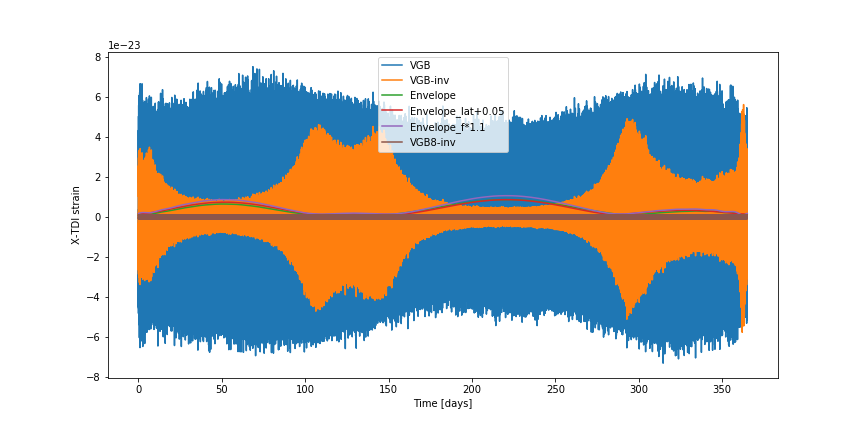
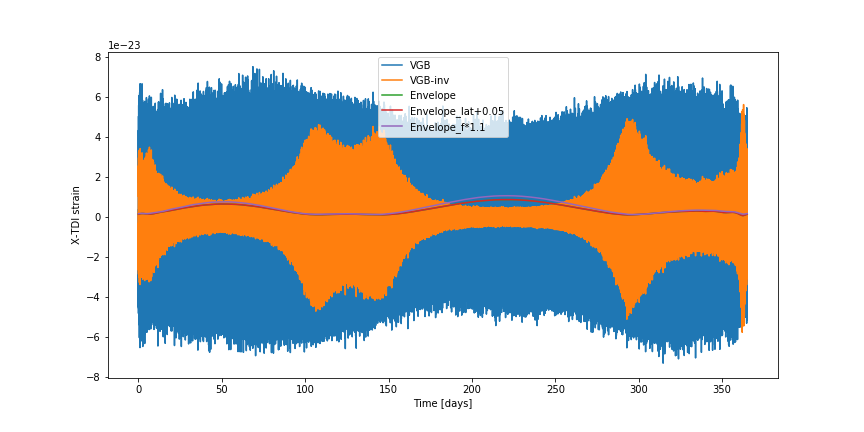
start update

Changed region(s): [[0.1562, 0.4514, 0.875, 0.5116], [0.4375, 0.3009, 0.5938, 0.3611], [0.5625, 0.2407, 0.5938, 0.2708]]

diff --git a/notebooks/start.py b/notebooks/start.py
@@ -33,12 +33,12 @@ dt = int(1/(tdi_descr["sampling_frequency"]))
 tdi_ts = xr.Dataset(dict([(k,TimeSeries(tdi_ts[k][:,1], dt=dt)) for k in ["X", "Y", "Z"]]))
 tdi_fs = xr.Dataset(dict([(k,tdi_ts[k].ts.fft(win=window)) for k in ["X", "Y", "Z"]]))
 
-filtered_fft = tdi_fs.copy()
-peak_freq = 0.0004726
-filtered_fft["X"][tdi_fs.f < peak_freq * 0.99] = 0+0j
-filtered_fft["X"][tdi_fs.f > peak_freq * 1.01] = 0+0j
-data_filtered = filtered_fft["X"].ts.ifft()
-data_filtered2 = TimeSeries(np.fft.irfft(filtered_fft["X"]),dt=dt)
+# filtered_fft = tdi_fs.copy()
+# peak_freq = 0.0004726
+# filtered_fft["X"][tdi_fs.f < peak_freq * 0.99] = 0+0j
+# filtered_fft["X"][tdi_fs.f > peak_freq * 1.01] = 0+0j
+# data_filtered = filtered_fft["X"].ts.ifft()
+# data_filtered2 = TimeSeries(np.fft.irfft(filtered_fft["X"]),dt=dt)
 
 plt.figure
 plt.semilogx(tdi_fs["X"][::30].f, tdi_fs["X"][::30].real, label="TDI X")
@@ -132,24 +132,24 @@ for i in range(number_segments):
 # pGB['Frequency'] *= 1.01
 # pGB['FrequencyDerivative'] *= 1.1
 # pGB['Polarization'] *= 1.001
-pGB['EclipticLatitude'] += 0.05
+# pGB['EclipticLatitude'] += 0.05
 # pGB['EclipticLongitude'] += 0.01
 # pGB['Inclination'] *= 1.001
 Xs_td2, Ys_td2, Zs_td2 = GB.get_td_tdixyz(template=pGB, simulator='synthlisa')
 analytic_signal2 = scipy.signal.hilbert(Xs_td2)
 amplitude_envelope2 = np.abs(analytic_signal2)
 
-pGB['EclipticLatitude'] -= 0.05
+pGB2['EclipticLatitude'] -= 0.05
 #modify pGB
 # pGB['InitialPhase'] *= 1.01
 # pGB['Amplitude'] *= 1.01
-pGB['Frequency'] *= 1.1
+pGB2['Frequency'] *= 1.1
 # pGB['FrequencyDerivative'] *= 1.1
 # pGB['Polarization'] *= 1.001
 # pGB['EclipticLatitude'] += 0.05
 # pGB['EclipticLongitude'] += 0.01
 # pGB['Inclination'] *= 1.001
-Xs_td2, Ys_td2, Zs_td2 = GB.get_td_tdixyz(template=pGB, simulator='synthlisa')
+Xs_td2, Ys_td2, Zs_td2 = GB.get_td_tdixyz(template=pGB2, simulator='synthlisa')
 analytic_signal2 = scipy.signal.hilbert(Xs_td2)
 amplitude_envelope3 = np.abs(analytic_signal2)
 
@@ -198,14 +198,14 @@ Xs_td.values = np.zeros(len(Xs_td.values))
 Ys_td.values = np.zeros(len(Ys_td.values))
 Zs_td.values = np.zeros(len(Zs_td.values))
 for j,s in enumerate(vgb):
-    pGB = dict(zip(vgb.dtype.names, s))
-    Xs, Ys, Zs = GB.get_fd_tdixyz(template=pGB, oversample=4, simulator='synthlisa')
-    fmin, fmax = float(Xs.f[0]) , float(Xs.f[-1]+Xs.attrs['df'])
-    source = dict({"X":Xs, "Y":Ys, "Z":Zs})
+    pGB2 = dict(zip(vgb.dtype.names, s))
+    Xs2, Ys2, Zs2 = GB.get_fd_tdixyz(template=pGB2, oversample=4, simulator='synthlisa')
+    fmin, fmax = float(Xs2.f[0]) , float(Xs2.f[-1]+Xs2.attrs['df'])
+    source = dict({"X":Xs2, "Y":Ys2, "Z":Zs2})
     SNR2[j,1] = compute_tdi_snr(source, Nmodel, data=tdi_fs, fmin=fmin, fmax=fmax)["tot2"]
     SNR2[j,0] = compute_tdi_snr(source, Nmodel)["tot2"] 
 
-    Xs_tdvb, Ys_tdvb, Zs_tdvb = GB.get_td_tdixyz(template=pGB, simulator='synthlisa')
+    Xs_tdvb, Ys_tdvb, Zs_tdvb = GB.get_td_tdixyz(template=pGB2, simulator='synthlisa')
     Xs_td += Xs_tdvb
     Ys_td += Ys_tdvb
     Zs_td += Zs_tdvb
@@ -235,48 +235,51 @@ for i in range(number_segments):
 frequency_calculated = params2[:,1] - frequency_correction
 print(frequency_calculated)
 #%%
-Xp = Xs_td#/amplitude_envelope*amplitude_target
+tdi_tsc = tdi_ts.copy(deep=True)
+tdi_fsc = tdi_fs.copy(deep=True)
+tdi_tsc["X"] = Xs_td#/amplitude_envelope*amplitude_target
 # Xp = tdi_ts["X"]/amplitude_envelope*amplitude_target
 # Xp = Xp[int(0.1*len(Xp.t)):-int(0.1*len(Xp.t))]
 # Xp = Xp[int(0.499*len(Xp.t)):-int(0.499*len(Xp.t))]
 # Xp = Xp_segments[2]
 # Xp = Xp[:int(1/1000*len(Xp.t))]
 # Xp = data_filtered2/amplitude_envelope*amplitude_target
-Xp = Xp[::3]
 plt.figure(figsize=(12,6))
-plt.plot(Xp.t/(24*3600), Xp, label="VGB")
-plt.plot(Xp.t/(24*3600), Xp/amplitude_envelope[::3]*amplitude_target/5000, label="VGB-inv")
-plt.plot(Xp.t/(24*3600), amplitude_envelope[::3], label="Envelope")
-plt.plot(Xp.t/(24*3600), amplitude_envelope2[::3], label="Envelope_lat+0.05")
-plt.plot(Xp.t/(24*3600), amplitude_envelope3[::3], label="Envelope_f*1.1")
-plt.plot(Xp8.t/(24*3600), Xp8/amplitude_envelope[::3]*amplitude_target/5000, label="VGB8-inv")
+plt.plot(tdi_tsc["X"].t/(24*3600), tdi_tsc["X"], label="VGB")
+plt.plot(tdi_tsc["X"][:-1].t/(24*3600), tdi_tsc["X"][:-1]/amplitude_envelope*amplitude_target/5000, label="VGB-inv")
+plt.plot(tdi_tsc["X"][:-1].t/(24*3600), amplitude_envelope, label="Envelope")
+plt.plot(tdi_tsc["X"][:-1].t/(24*3600), amplitude_envelope2, label="Envelope_lat+0.05")
+plt.plot(tdi_tsc["X"][:-1].t/(24*3600), amplitude_envelope3, label="Envelope_f*1.1")
+# plt.plot(tdi_tsc8.t/(24*3600), tdi_tsc8/amplitude_envelope[::3]*amplitude_target/5000, label="VGB8-inv")
 plt.xlabel("Time [days]")
 plt.ylabel("X-TDI strain")
 plt.legend()
-plt.savefig("pictures/VGB88-inv.png")
+# plt.savefig("pictures/VGB88-inv.png")
 plt.show()
 
-Xp_fs = Xp.ts.fft(win=window)
-Xp_inv = Xp
-Xp_inv.values = Xp.values/amplitude_envelope[::3]*amplitude_target/5000
-Xp_fs = Xp_inv[cut:cut+length].ts.fft(win=window)
+tdi_tsc_inv = tdi_tsc.copy(deep=True)
+tdi_tsc_inv["X"][:-1].values = tdi_tsc["X"][:-1].values/amplitude_envelope*amplitude_target/5000
+tdi_fsc_inv = xr.Dataset(dict([(k,tdi_tsc_inv[k][:-1].ts.fft(win=window)) for k in ["X", "Y", "Z"]]))
+tdi_fsc = xr.Dataset(dict([(k,tdi_tsc[k][:-1].ts.fft(win=window)) for k in ["X", "Y", "Z"]]))
+
 plt.figure(figsize=(12,6))
 plt.subplot(121)
 plt.title("real part")
-plt.plot(Xp_fs.f, (Xp_fs[Xs.kmin:Xs.kmin+len(Xs)]-Xs.values).real, label="TDI X - fast "+pGB["Name"])
+plt.plot(Xs.f, (tdi_fsc["X"][Xs.kmin:Xs.kmin+len(Xs)]-Xs.values).real, label="TDI X - fast "+pGB["Name"])
+plt.plot(Xs.f, (tdi_fsc_inv["X"][Xs.kmin:Xs.kmin+len(Xs)]).real, label="TDI X - fast "+pGB["Name"])
 plt.axis([pGB["Frequency"]-6e-7, pGB["Frequency"]+6e-7, -3e-17, 5e-17])
 plt.legend(loc="lower right")
 plt.xlabel("freq [Hz]")
 plt.subplot(122)
 plt.title("imaginary part")
-plt.plot(Xp_fs.f, (Xp_fs.isel(f=slice(Xs.kmin, Xs.kmin+len(Xs)))-Xs.values).imag, label="TDI X - fast "+pGB["Name"])
+plt.plot(tdi_fsc.f, (tdi_fsc_inv.isel(f=slice(Xs.kmin, Xs.kmin+len(Xs)))-Xs.values).imag, label="TDI X - fast "+pGB["Name"])
 plt.axis([pGB["Frequency"]-6e-7, pGB["Frequency"]+6e-7, -3e-17, 5e-17])
 plt.legend(loc="lower left")
 plt.xlabel("freq [Hz]")
 plt.savefig("pictures/fs.png")
 
 plt.figure(figsize=(12,6))
-plt.plot(Xp_inv.t[cut:cut+length]/(24*3600), Xp_inv[cut:cut+length], label="VGB8")
+plt.plot(tdi_tsc_inv.t[cut:cut+length]/(24*3600), tdi_tsc_inv[cut:cut+length], label="VGB8")
 plt.xlabel("Time [days]")
 plt.ylabel("X-TDI strain")
 plt.legend()
@@ -434,8 +437,6 @@ plt.ylim(0.0004,0.0005)
 print(samples[-1, :])
 
 #%%
-cut = 10**5
-length = 1000
 tdi_tsx_invmod = tdi_ts["X"][1:]/amplitude_envelope*amplitude_target
 arr = Xs_td.shift(t=2)
 subtracted = tdi_ts["X"]-arr
